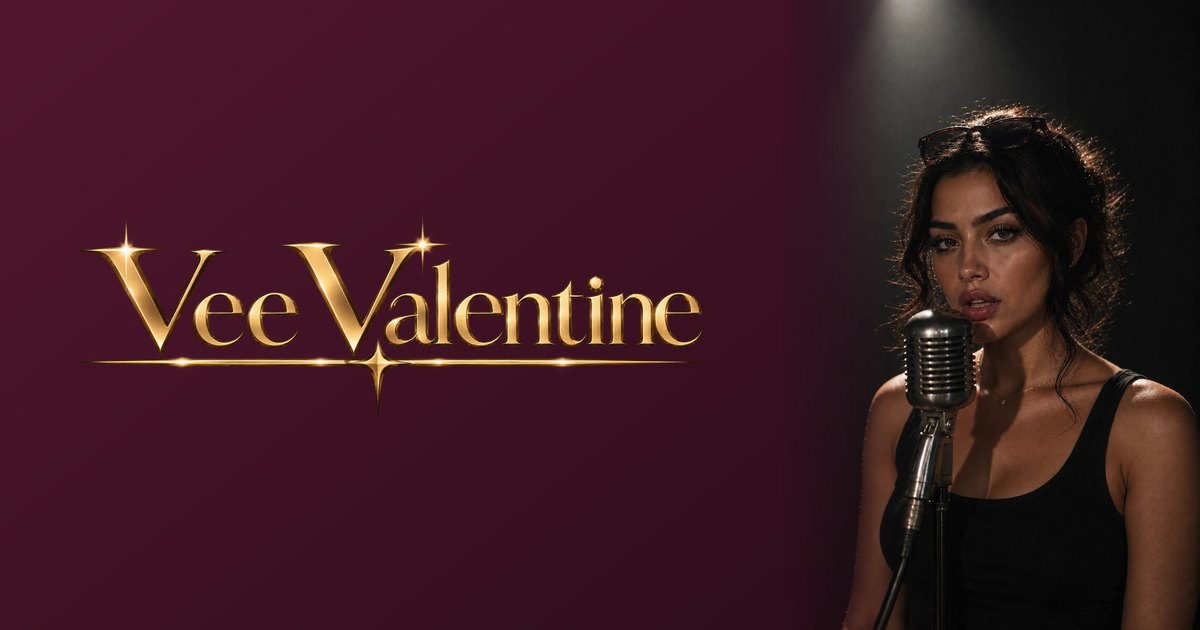
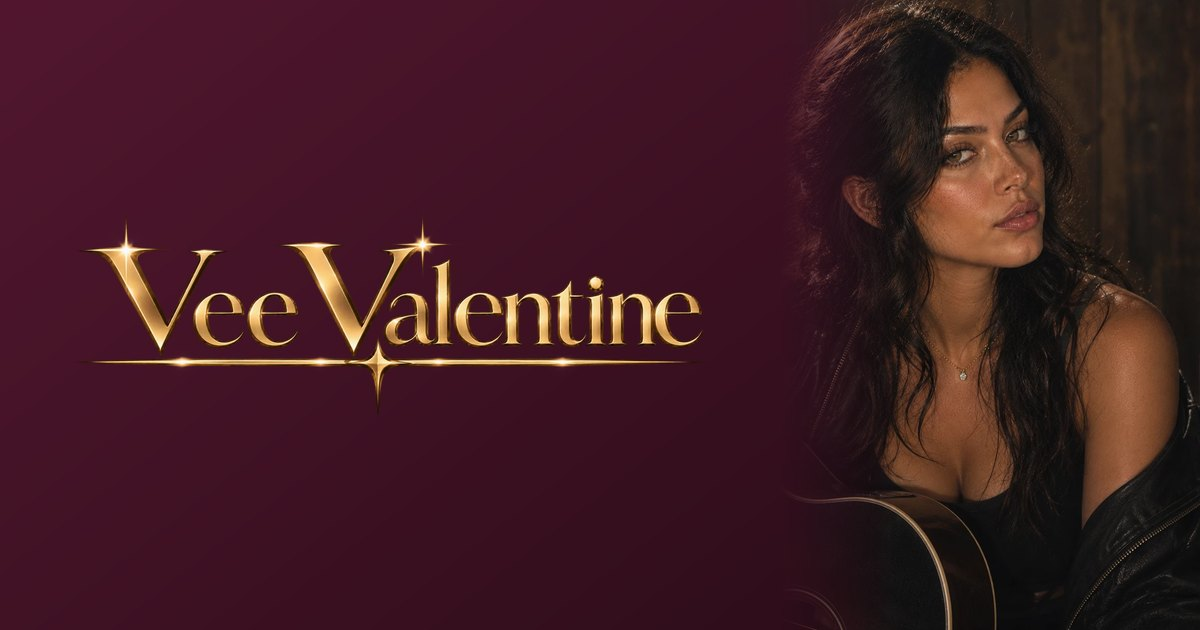
Replace homepage hero photo; refresh social share image

Changed region(s): [[0.6783, 0.0, 1.0, 1.0]]

diff --git a/index.html b/index.html
@@ -19,7 +19,7 @@
 <meta property="og:image:height" content="630">
 <meta property="og:image:alt" content="Vee Valentine wordmark beside a portrait of the artist at a vintage microphone">
 <meta name="twitter:card" content="summary_large_image">
-<link rel="stylesheet" href="style.css?v=28">
+<link rel="stylesheet" href="style.css?v=29">
 <script type="application/ld+json">{"@context":"https://schema.org","@type":"MusicGroup","name":"Vee Valentine","url":"https://veevalentine.com/","description":"Chicago vocalist blending classic jazz and lounge influences with modern pop.","genre":["Pop","Jazz","Lounge"],"image":"https://veevalentine.com/images/og-vee-valentine.jpg"}</script>
 </head>
 <body>
@@ -39,7 +39,7 @@
 <p class="lead">Smoky, jazz-inflected pop with the hush of a late-night room.</p>
 <p><a class="btn" href="#meet">Discover Vee</a></p>
 </div>
-<div class="hero-photo"><img src="images/web/hero-full.webp" srcset="images/web/hero-640.webp 640w, images/web/hero-full.webp 1024w" sizes="(max-width:860px) 92vw, 46vw" width="1024" height="1536" alt="Vee Valentine singing close to a vintage microphone in a spotlit, smoky room" fetchpriority="high"></div>
+<div class="hero-photo"><img src="images/web/hero2-full.webp" srcset="images/web/hero2-640.webp 640w, images/web/hero2-full.webp 1254w" sizes="(max-width:860px) 92vw, 46vw" width="1254" height="1254" alt="Vee Valentine holding an acoustic guitar in a warmly lit wood-paneled room, looking toward the camera" fetchpriority="high"></div>
 </div>
 </section>
 

diff --git a/style.css b/style.css
@@ -81,12 +81,12 @@ h2{font-size:clamp(2rem,3.8vw,3rem);line-height:1.1;margin-bottom:1.2rem}
 .hero-grid{display:grid;grid-template-columns:1.05fr .95fr;gap:clamp(1.8rem,5vw,4rem);align-items:center}
 .hero h1{font-size:clamp(2.8rem,6.4vw,5rem);line-height:1.02;margin:0 0 1.2rem;letter-spacing:-.005em}
 .hero .lead{max-width:30rem;margin:0 0 2.1rem}
-.hero-photo img{width:100%;aspect-ratio:4/5;object-fit:cover;object-position:50% 22%}
+.hero-photo img{width:100%;aspect-ratio:4/5;object-fit:cover;object-position:58% 30%}
 @media (max-width:860px){
   .hero{padding-block:1.1rem 2rem}
   .hero-grid{grid-template-columns:1fr;gap:1.2rem}
   .hero-photo{order:-1}
-  .hero-photo img{aspect-ratio:1/.86;object-position:50% 20%}
+  .hero-photo img{aspect-ratio:1/.86;object-position:58% 28%}
   .hero .eyebrow{display:none}
   .hero h1{font-size:clamp(2.5rem,10vw,3.4rem);margin-bottom:.7rem}
   .hero .lead{margin-bottom:1.3rem}

diff --git a/about.html b/about.html
@@ -19,7 +19,7 @@
 <meta property="og:image:height" content="630">
 <meta property="og:image:alt" content="Vee Valentine wordmark beside a portrait of the artist at a vintage microphone">
 <meta name="twitter:card" content="summary_large_image">
-<link rel="stylesheet" href="style.css?v=28">
+<link rel="stylesheet" href="style.css?v=29">
 </head>
 <body>
 <a class="skip" href="#main">Skip to content</a>

diff --git a/contact.html b/contact.html
@@ -19,7 +19,7 @@
 <meta property="og:image:height" content="630">
 <meta property="og:image:alt" content="Vee Valentine wordmark beside a portrait of the artist at a vintage microphone">
 <meta name="twitter:card" content="summary_large_image">
-<link rel="stylesheet" href="style.css?v=28">
+<link rel="stylesheet" href="style.css?v=29">
 </head>
 <body>
 <a class="skip" href="#main">Skip to content</a>

diff --git a/music.html b/music.html
@@ -19,7 +19,7 @@
 <meta property="og:image:height" content="630">
 <meta property="og:image:alt" content="Vee Valentine wordmark beside a portrait of the artist at a vintage microphone">
 <meta name="twitter:card" content="summary_large_image">
-<link rel="stylesheet" href="style.css?v=28">
+<link rel="stylesheet" href="style.css?v=29">
 </head>
 <body>
 <a class="skip" href="#main">Skip to content</a>

diff --git a/privacy.html b/privacy.html
@@ -19,7 +19,7 @@
 <meta property="og:image:height" content="630">
 <meta property="og:image:alt" content="Vee Valentine wordmark beside a portrait of the artist at a vintage microphone">
 <meta name="twitter:card" content="summary_large_image">
-<link rel="stylesheet" href="style.css?v=28">
+<link rel="stylesheet" href="style.css?v=29">
 </head>
 <body>
 <a class="skip" href="#main">Skip to content</a>

diff --git a/shows.html b/shows.html
@@ -19,7 +19,7 @@
 <meta property="og:image:height" content="630">
 <meta property="og:image:alt" content="Vee Valentine wordmark beside a portrait of the artist at a vintage microphone">
 <meta name="twitter:card" content="summary_large_image">
-<link rel="stylesheet" href="style.css?v=28">
+<link rel="stylesheet" href="style.css?v=29">
 </head>
 <body>
 <a class="skip" href="#main">Skip to content</a>
